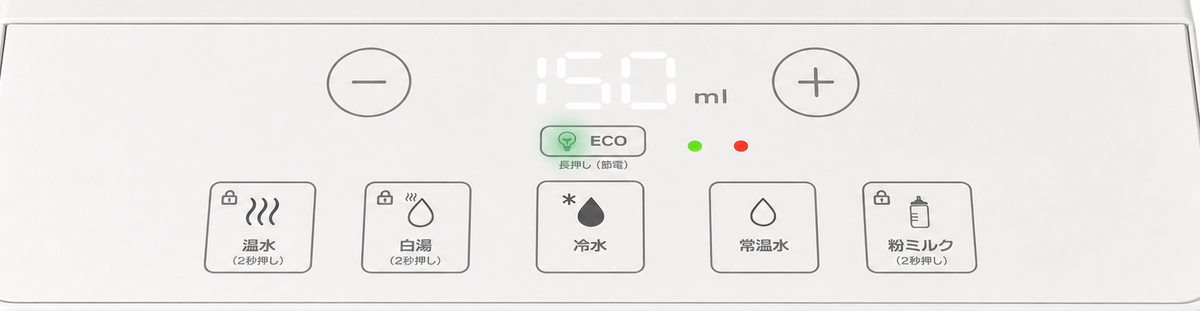
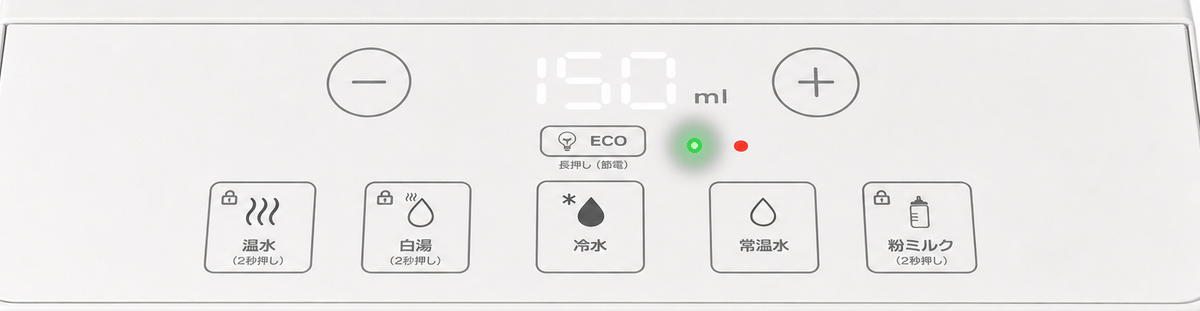
v2.3.2: 普及率の枠なし・UV章の見出し・ぬるぬる・剥がれた膜の図・ロックの図削除・エコのランプ位置

Changed region(s): [[0.555, 0.3762, 0.6167, 0.5788], [0.4317, 0.3762, 0.4933, 0.5209]]

diff --git a/index.html b/index.html
@@ -713,11 +713,11 @@
     </div>
 
     <!-- 2 ← W13 緑膿菌とバイオフィルム -->
-    <h4 class="h4 uv__nh"><span class="num">04</span>特に気をつけたいのが、緑膿菌が形成するバイオフィルムです</h4>
+    <h4 class="h3 uv__sub">特に気をつけたいのが、緑膿菌が形成するバイオフィルムです</h4>
 
     <div class="panel--sand uv__def stack">
       <p class="h4">バイオフィルムとは</p>
-      <p class="p">浴室の床や三角コーナーのぬめりと同じもの。菌が自分を守るために作る、ネバネバの膜です。</p>
+      <p class="p">浴室の床や三角コーナーのぬめりと同じもの。菌が自分を守るために作る、ぬるぬるの膜です。</p>
       <p class="p">この3ステップで、バイオフィルムを形成します。</p>
     </div>
 
@@ -745,7 +745,7 @@
           <p class="note">壁にくっつき、仲間を増やす</p>
         </div>
         <div class="uv__bfc">
-          <svg class="uv__tank" viewBox="1026.5 518 320 184" role="img" aria-label="水槽の底の菌がネバネバの膜に覆われている図">
+          <svg class="uv__tank" viewBox="1026.5 518 320 184" role="img" aria-label="水槽の底の菌がぬるぬるの膜に覆われている図">
             <rect class="uv__inner" x="1044.6" y="521.6" width="283.8" height="176.8"/>
             <rect class="uv__water" x="1044.6" y="540.2" width="283.8" height="158.2"/>
             <line class="uv__surface" x1="1044.6" y1="540.6" x2="1328.4" y2="540.6"/>
@@ -754,7 +754,7 @@
             <circle class="uv__dot" cx="1083.0" cy="674.0" r="3.1"/><circle class="uv__dot" cx="1287.0" cy="675.8" r="3.2"/><circle class="uv__dot" cx="1252.7" cy="676.2" r="3.0"/><circle class="uv__dot" cx="1199.6" cy="676.3" r="3.1"/><circle class="uv__dot" cx="1139.0" cy="676.5" r="3.1"/><circle class="uv__dot" cx="1171.8" cy="676.6" r="3.2"/><circle class="uv__dot" cx="1114.5" cy="677.3" r="3.1"/><circle class="uv__dot" cx="1226.2" cy="677.4" r="3.2"/><circle class="uv__dot" cx="1097.8" cy="681.6" r="3.2"/><circle class="uv__dot" cx="1299.1" cy="684.7" r="3.2"/><circle class="uv__dot" cx="1070.0" cy="684.7" r="3.3"/><circle class="uv__dot" cx="1273.6" cy="684.9" r="2.9"/><circle class="uv__dot" cx="1155.5" cy="685.7" r="3.1"/><circle class="uv__dot" cx="1242.0" cy="686.0" r="3.1"/><circle class="uv__dot" cx="1187.1" cy="686.1" r="3.1"/><circle class="uv__dot" cx="1212.5" cy="686.3" r="3.1"/><circle class="uv__dot" cx="1124.8" cy="686.6" r="3.2"/>
           </svg>
           <p class="h3 uv__bfs">膜を作る</p>
-          <p class="note">ネバネバの膜で身を守る</p>
+          <p class="note">ぬるぬるの膜で身を守る</p>
         </div>
     </div>
 
@@ -768,12 +768,26 @@
 
     <!-- 3 ← W13b 膜が作られると（3ステップ図の再掲は出さない） -->
     <div class="uv__pivot">
-      <p class="p uv__pivot-t">膜が作られると、水を出すたびに膜が剥がれ落ちて水に混ざり、衛生面や味・品質の劣化の懸念を生みます。</p>
-      <p class="p uv__pivot-t">だから、浮遊や付着の段階で殺菌することが重要です。</p>
+      <div class="stack">
+        <p class="p uv__pivot-t">膜が作られると、水を出すたびに膜が剥がれ落ちて水に混ざり、衛生面や味・品質の劣化の懸念を生みます。</p>
+        <p class="p uv__pivot-t">だから、浮遊や付着の段階で殺菌することが重要です。</p>
+      </div>
+      <div class="uv__peelbox">
+        <svg class="uv__tank uv__peel" viewBox="0 0 320 184" role="img" aria-label="水槽の底のぬるぬるの膜が剥がれ、小さなかけらが水の中に混ざっている図">
+          <rect class="uv__inner" x="4" y="4" width="312" height="176"/>
+          <rect class="uv__water" x="4" y="22" width="312" height="158"/>
+          <line class="uv__surface" x1="4" y1="22.5" x2="316" y2="22.5"/>
+          <rect class="uv__box" x="4" y="4" width="312" height="176"/>
+          <path class="uv__film" d="M14 176 L14 160 Q40 150 70 158 L92 152 L100 166 Q130 156 160 162 L190 154 L200 170 Q240 152 300 160 L306 176 Z"/>
+          <g class="uv__flake"><path d="M96 140 l14 -4 4 8 -12 6 z"/><path d="M186 128 l12 -6 6 6 -10 8 z"/><path d="M150 100 l10 -3 3 7 -10 4 z"/><path d="M230 112 l11 -5 5 7 -11 5 z"/><path d="M60 118 l9 -4 4 6 -9 4 z"/><path d="M130 72 l8 -3 3 6 -8 3 z"/></g>
+          <g class="uv__dot"><circle cx="103" cy="143" r="2.4"/><circle cx="192" cy="131" r="2.4"/><circle cx="156" cy="103" r="2.2"/><circle cx="237" cy="116" r="2.3"/><circle cx="66" cy="121" r="2.2"/><circle cx="135" cy="75" r="2"/></g>
+        </svg>
+        <p class="note">剥がれた膜が水に混ざる</p>
+      </div>
     </div>
 
     <!-- 4 ← W14 99.9%の殺菌 -->
-    <h4 class="h4 uv__nh"><span class="num">05</span>出水口に、強力なUV殺菌LEDを設置</h4>
+    <h4 class="h3 uv__sub">出水口に、強力なUV殺菌LEDを設置</h4>
 
     <div class="g2 uv__proof">
       <div class="uv__ptxt">
@@ -855,13 +869,12 @@
       <p class="lead">チャイルドロックで安心</p>
     </header>
     <div class="blk__body">
-      <div class="g2 cr__lock">
+      <div class="cr__lock">
         <div class="cr__ltxt">
           <p class="p">すべてのボタンをロックできて、小さなお子さまの誤操作を防ぎます。</p>
           <p class="p">ロック中は温水も出ません。</p>
           <p class="p">＋と−の同時2秒押しで、ロックも解除もできます。</p>
         </div>
-        <img class="cr__panel" src="assets/W15c_lock_eco/panel_real.png" width="1200" height="311" alt="PureNext本体の操作パネル。−・150ml表示・＋、ECOボタン、温水・白湯・冷水・常温水・粉ミルクの5つのボタンが並んでいる">
       </div>
     </div>
   </article>
@@ -888,7 +901,7 @@
             </div>
           </div>
         </div>
-        <img class="cr__panel" src="assets/W15c_lock_eco/panel_eco_on.png" width="1200" height="311" alt="PureNext本体の操作パネル。ECOボタンの電球のマークが緑に光っている">
+        <img class="cr__panel" src="assets/W15c_lock_eco/panel_eco_on.png" width="1200" height="311" alt="PureNext本体の操作パネル。ECOボタンの右にある緑のランプが点灯している">
       </div>
 
       <div class="cr__tnote">

diff --git a/css/v2/S3.css b/css/v2/S3.css
@@ -71,3 +71,16 @@
   .uv__ptxt>.p+.h3{margin-top:48px}
   .uv__card>*+*{margin-top:12px}
 }
+
+/* v2.3.2: 04/05 の番号をやめ、見出しとして目に留まる形（ブロンズの縦棒） */
+.uv__sub{border-left:calc(4*var(--u)) solid var(--bronze);padding-left:calc(20*var(--u))}
+/* 剥がれた膜の図: 本文の右に小さく */
+.uv__pivot{display:grid;grid-template-columns:1fr calc(300*var(--u));column-gap:calc(var(--gut2)*var(--u));align-items:center}
+.uv__peelbox>*+*{margin-top:calc(var(--sp-in)*var(--u))}
+.uv__peelbox .note{text-align:center}
+.uv__flake{fill:var(--sand);stroke:var(--charcoal);stroke-width:1;stroke-linejoin:round}
+@media (max-width:900px){
+  .uv__sub{border-left-width:3px;padding-left:12px}
+  .uv__pivot{grid-template-columns:1fr;row-gap:16px}
+  .uv__peelbox{width:220px;margin:0 auto}
+}

diff --git a/css/v2/S1.css b/css/v2/S1.css
@@ -151,3 +151,8 @@
   .mt__coin{width:48px}
   .mt__right>.h3+.big,.mt__right>.note+.h3{margin-top:16px}
 }
+
+/* v2.3.2: 普及率ブロックだけ枠なし（早川さん指示）。所属は余白で示す */
+#market-share .stat,#market-share .figbox{background:transparent;border:0;padding:0}
+#market-share .figbox__title{margin-bottom:calc(var(--sp-in)*var(--u))}
+#market-share .figbox+.figbox{margin-top:calc(var(--sp-el)*var(--u))}
